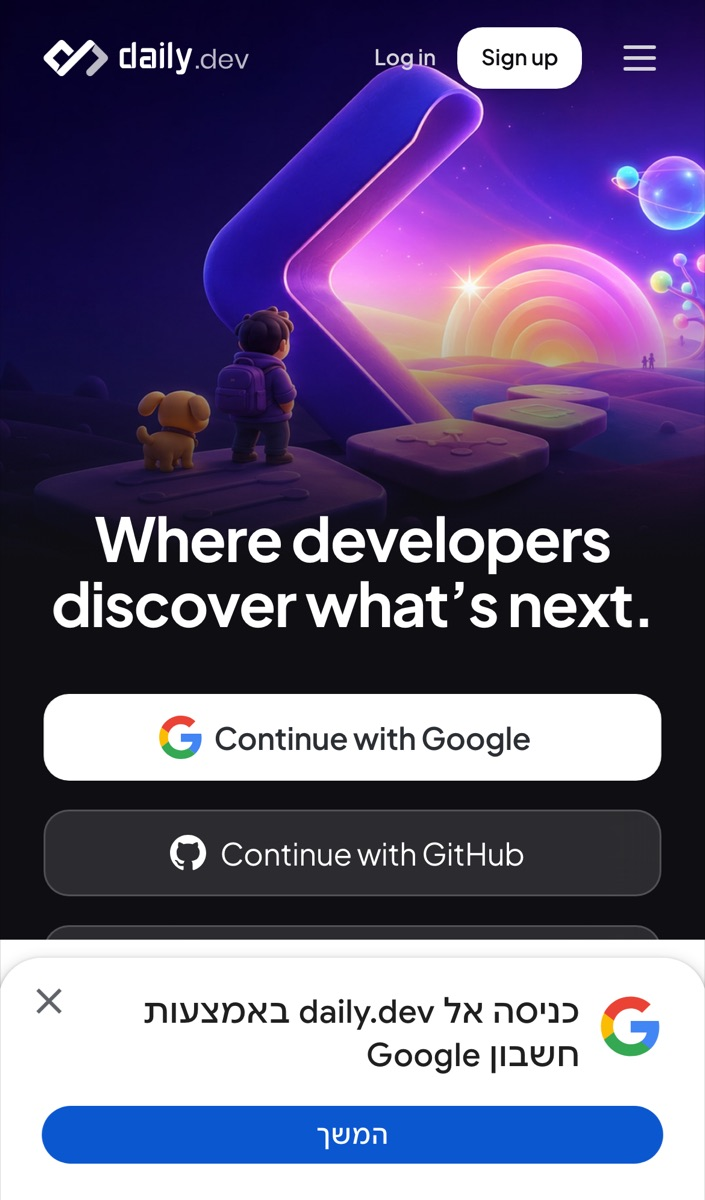
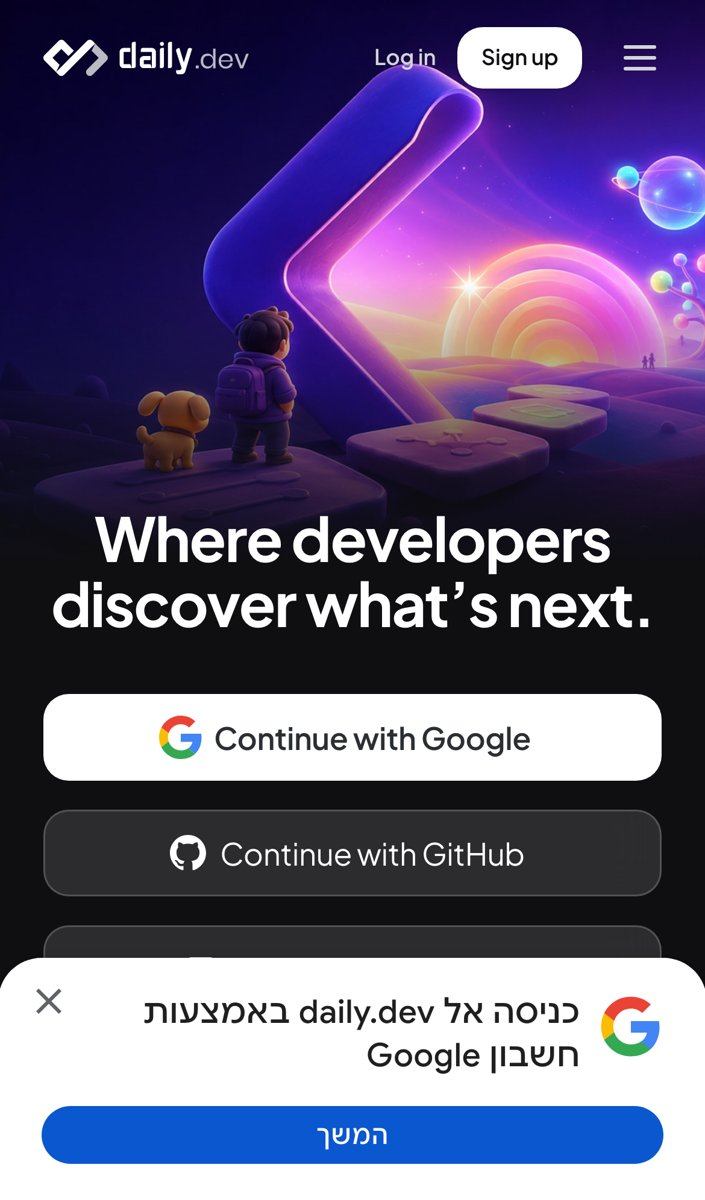
feat(storybook): phone mocks match today's daily.dev/ on a phone
Measured against production on a Pixel 7 today: the phone mocks take the
landing's phone layout (its header without the menu, the art 312px tall at
78% 45% fading over its lower half, the block 32px up into it), so the
headline and buttons land on production's exact pixels. On every width the
buttons now copy the landing's (6px icon gap, 16/24px padding, translucent
white secondaries with a blur), and the font loads only the weights the
landing loads, so medium labels render as production's. The phone landing
and PWA captures are retaken today.

diff --git a/packages/storybook/stories/login-surfaces/AlignedSignup.stories.tsx b/packages/storybook/stories/login-surfaces/AlignedSignup.stories.tsx
@@ -56,17 +56,30 @@ const desktopHeadline = {
 };
 const phoneHeadline = {
   fontSize: '2.1rem',
-  lineHeight: '2.25rem',
+  lineHeight: 1.07,
   letterSpacing: '-0.0525rem',
 };
 const landingLegal = { fontSize: '0.6875rem', lineHeight: '1rem' };
+// The landing's buttons: white Google, then translucent white ones with a
+// blur. Their colors are the landing's own, not our tokens.
 const landingButton = (isPrimary: boolean) => ({
   height: '3rem',
+  paddingLeft: '1rem',
+  paddingRight: '1.5rem',
+  gap: '0.375rem',
   borderRadius: '0.875rem',
   fontSize: '1.0625rem',
   lineHeight: '1.375rem',
   letterSpacing: '-0.010625rem',
   fontWeight: isPrimary ? 600 : 500,
+  ...(isPrimary
+    ? { background: '#fff', color: 'rgba(14, 18, 23, 0.88)' }
+    : {
+        background: 'rgba(255, 255, 255, 0.12)',
+        border: '1px solid rgba(255, 255, 255, 0.18)',
+        color: '#fff',
+        backdropFilter: 'blur(12px)',
+      }),
 });
 
 // The landing's typeface. The mocks load it themselves since the app does not
@@ -74,7 +87,7 @@ const landingButton = (isPrimary: boolean) => ({
 const landingFont = { fontFamily: '"Plus Jakarta Sans", sans-serif' };
 const LandingFont = (): ReactElement => (
   <link
-    href="https://fonts.googleapis.com/css2?family=Plus+Jakarta+Sans:wght@400;500;600;700&display=swap"
+    href="https://fonts.googleapis.com/css2?family=Plus+Jakarta+Sans:wght@400;600;700&display=swap"
     rel="stylesheet"
   />
 );
@@ -169,11 +182,7 @@ const LandingSignupBlock = ({
           {ways.map(({ label, icon, variant }) => (
             <Button
               key={label}
-              className={classNames(
-                'w-full',
-                variant === ButtonVariant.Float &&
-                  '!border !border-border-subtlest-tertiary !text-text-primary',
-              )}
+              className="w-full [&>svg]:!m-0"
               icon={cloneElement(icon, { size: IconSize.Small })}
               onClick={fn()}
               size={ButtonSize.Large}
@@ -290,10 +299,10 @@ const DesktopFunnel = ({ isInvite }: { isInvite?: boolean }): ReactElement => (
   </div>
 );
 
-// The Android and iOS apps at phone width: the art across the top fading
-// into the page, the logo, then the landing block anchored to the bottom.
-// The art sits 14% higher than its band so the boy and Patchy clear the
-// fade, and it fades out on its own over its last 30%.
+// Phones, laid out as daily.dev/ is on a phone today: its header with the
+// logo, log in and sign up (no menu), the art 312px tall cropped at 78% 45%
+// and fading into the page over its lower half, and the block starting 32px
+// up into the art.
 const PhoneFunnel = ({
   isIOS,
   isWeb,
@@ -303,30 +312,50 @@ const PhoneFunnel = ({
   isWeb?: boolean;
   isInvite?: boolean;
 }): ReactElement => (
-  <div className="relative isolate flex min-h-dvh w-full flex-col justify-end overflow-hidden bg-background-default px-6 pb-8 text-text-primary">
+  <div
+    className="relative isolate min-h-dvh w-full overflow-hidden bg-background-default pb-8 text-text-primary"
+    style={landingFont}
+  >
     <LandingFont />
-    <div
-      aria-hidden
-      className="pointer-events-none absolute inset-x-0 top-0 -z-1 h-1/2 overflow-hidden"
-    >
+    <header className="absolute inset-x-0 top-0 z-2 flex h-16 items-center justify-between px-6">
+      <Logo
+        position={LogoPosition.Relative}
+        className="!left-0 !top-0 !mt-0 !translate-x-0"
+        logoClassName={{ container: 'h-5' }}
+      />
+      <div className="flex items-center gap-3">
+        <button
+          className="text-xs font-semibold text-text-secondary"
+          onClick={fn()}
+          type="button"
+        >
+          Log in
+        </button>
+        <button
+          className="rounded-14 bg-text-primary px-3 py-2 text-xs font-semibold text-surface-invert"
+          onClick={fn()}
+          type="button"
+        >
+          Sign up
+        </button>
+      </div>
+    </header>
+    <div aria-hidden className="relative">
       <img
         alt=""
-        className="absolute inset-x-0 size-full select-none object-cover"
+        className="block w-full select-none object-cover"
         src={signupWallHorizon}
+        style={{ height: '19.5rem', objectPosition: '78% 45%' }}
+      />
+      <div
+        className="absolute inset-x-0 bottom-0 h-1/2"
         style={{
-          top: '-14%',
-          objectPosition: '64% 50%',
-          maskImage: 'linear-gradient(to bottom, black 70%, transparent)',
-          WebkitMaskImage: 'linear-gradient(to bottom, black 70%, transparent)',
+          backgroundImage:
+            'linear-gradient(to bottom, transparent, var(--theme-background-default))',
         }}
       />
     </div>
-    <div className="flex flex-col items-center gap-6">
-      <Logo
-        position={LogoPosition.Relative}
-        className="!left-0 !top-0 !mt-0 !translate-x-0 self-center"
-        logoClassName={{ container: 'h-6' }}
-      />
+    <div className="relative -mt-8 flex justify-center px-6">
       <LandingSignupBlock
         align="center"
         isIOS={isIOS}
